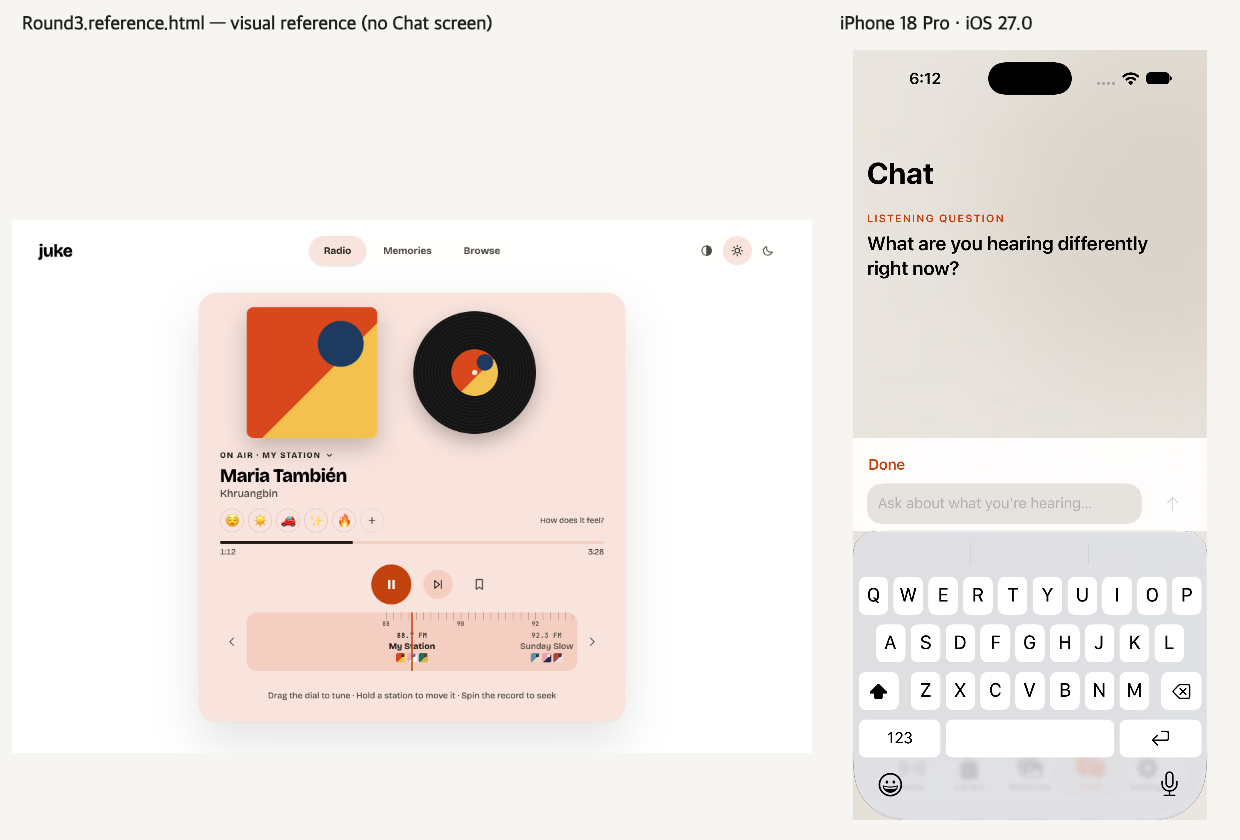
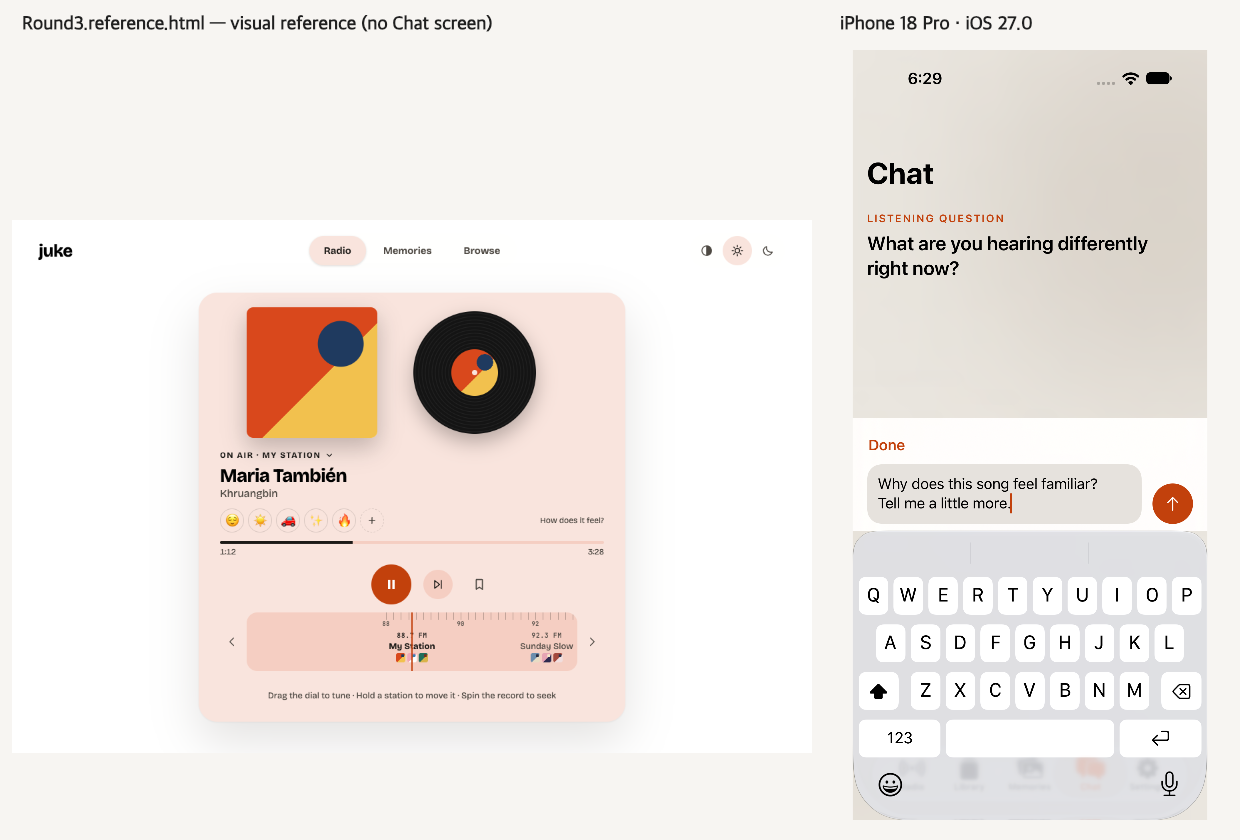
Complete keyboard screenshots and simulator verification

Changed region(s): [[0.6742, 0.4952, 0.9806, 0.619], [0.7968, 0.0619, 0.8581, 0.1238], [0.7355, 0.0929, 0.7661, 0.1238]]

diff --git a/docs/design/juke-app/ios-polish-r2/README.md b/docs/design/juke-app/ios-polish-r2/README.md
@@ -2,18 +2,22 @@
 
 ## B — Chat Done and Send
 
-Not verified on device. Screenshots use the DEBUG local-preview account, with no credentials or live chat requests.
+Not verified on device. All Chat screenshots are XCTest attachments from the final code, using the DEBUG local-preview account without credentials or live chat requests.
 
-- `b-chat-iPhone-18-Pro.png` and `b-comparison-iPhone-18-Pro.png`: final code, iPhone 18 Pro / iOS 27.0, software keyboard visible (empty draft, Send correctly disabled).
-- `b-chat-iPhone-17e-preliminary.png` and its comparison: small-phone keyboard layout before the final explicit 44-point Done hit-area adjustment; the visible layout is unchanged. A final small-phone capture is pending.
-- Multiline-draft, automated UI interaction and accessibility XXXL screenshots remain pending. The focused Pro UI test is running; the normal and large-text UI test cases are included in `ChatViewUITests.swift`.
+| Capture | Verification |
+| --- | --- |
+| `b-chat-iPhone-18-Pro.png` / `b-comparison-iPhone-18-Pro.png` | iPhone 18 Pro, iOS 27.0, multiline draft and keyboard visible; normal-text UI case passed. |
+| `b-chat-iPhone-17e.png` / `b-comparison-iPhone-17e.png` | iPhone 17e, iOS 27.0, multiline draft and keyboard visible; normal-text UI case passed. |
+| `b-chat-iPhone-17e-large-text.png` / its comparison | iPhone 17e, accessibility XXXL text (`UICTContentSizeCategoryAccessibilityXXXL`); UI case passed. |
 
-`Round3.reference.html` has Radio, Memories and Browse, but no Chat screen or phone keyboard. Its Radio view provides the palette and rounded-surface reference. `b-round3-reference.png` is a static rendering of the HTML template and embedded `Component.renderVals()` with light-theme defaults; the untracked `support.js` runtime is absent from the repository.
+The UI cases verify both controls are hittable, at least 44 points wide/high, inside the screen, non-overlapping and above the keyboard. Done dismisses the keyboard without clearing the multiline draft; focusing the draft makes both controls available again. Visual inspection also verifies the fixed-size Send symbol stays inside its circle at XXXL text. Three composer unit tests cover blank/whitespace, nonblank/multiline and in-flight drafts.
 
-Three composer logic tests passed: empty/whitespace drafts, nonblank/multiline drafts and the in-flight send guard. Final build script runs passed on iPhone 17e and iPhone 18 Pro. Initial simulator/test stalls were caused by host memory pressure (conductor diagnosis), rather than an app/runtime defect. After the conductor reduced booted simulators, Pro installation/launch and capture completed. Verification now uses one simulator at a time, shutting each down before booting another.
+`Round3.reference.html` has Radio, Memories and Browse, but no Chat screen or phone keyboard. Its Radio view provides the palette and rounded-surface reference. `b-round3-reference.png` is a static rendering of the HTML template and embedded `Component.renderVals()` with light-theme defaults; the repository does not contain the `support.js` runtime.
 
-Local validation records:
-- Passing logic tests: `/tmp/juke-chat-unit.xcresult`, `/tmp/juke-chat-unit.log`.
-- Final small-phone build: `logs/ios-build-jukeapp-2D03DD7D-7F07-4887-8EF8-90FAC4A96700-20261008-175549.log`.
-- Resumed Pro build: `logs/ios-build-jukeapp-6A9957BE-0ED2-41D6-A5B5-FEC3022A7BF7-20261008-180956.log`; fixture launch PID 72258.
-- Resumed Pro UI test: `/tmp/juke-chat-pro-resumed.log`, `/tmp/juke-chat-pro-resumed.xcresult`.
+Local validation:
+- Logic: `/tmp/juke-chat-unit.xcresult`, `/tmp/juke-chat-unit.log` (3 tests passed).
+- Small phone: `/tmp/juke-chat-small-final.xcresult`, `/tmp/juke-chat-small-final.log` (2 UI tests passed).
+- Pro: `/tmp/juke-chat-pro-final.xcresult`, `/tmp/juke-chat-pro-final.log` (1 UI test passed).
+- Final script builds: `logs/ios-build-jukeapp-2D03DD7D-7F07-4887-8EF8-90FAC4A96700-20261008-182157.log` and `logs/ios-build-jukeapp-6A9957BE-0ED2-41D6-A5B5-FEC3022A7BF7-20261008-182639.log`.
+
+Initial stalls were host memory pressure, diagnosed by the conductor. Verification resumed with one simulator and one build/test job at a time. Both used simulators (`2D03DD7D` and `6A9957BE`) were shut down after testing; the other worker's `170CE1B6` simulator was left untouched. No shared simulator service restart.

diff --git a/tasks/juke-ios-polish-round2.md b/tasks/juke-ios-polish-round2.md
@@ -124,10 +124,10 @@ Execution mode: **ASYNC**. Follow `docs/agent-pr-pipeline-protocol.md`. Rank is 
 
 ### PR B — Chat keyboard controls (implementer-1)
 
-- Scope: Done moves from the system keyboard toolbar to a dedicated leading row in the Chat composer; Send stays beside the draft. Both remain in the bottom safe-area inset, with a 44-point Done tap target and accessibility labels/identifiers.
-- Send uses the same whitespace/in-flight guard in the view and `VibeAppModel.send`; dismissal only changes focus and preserves the draft.
-- Added composer unit tests and focused XCTest UI coverage for separate/hittable controls, multiline drafts, draft-preserving dismissal and accessibility XXXL text.
-- Simulator evidence: `docs/design/juke-app/ios-polish-r2/`. Not verified on device. Round3 has no Chat screen, so the comparison is a static Radio reference for visual styling.
-- Other round-2 groups remain outstanding; B only partially addresses synced task issue #210.
-- B validation blocker (2026-10-08): three `ChatComposerTests` passed; final builds succeeded on iPhone 17e and dedicated iPhone 18 Pro. Final UI checks/screenshots could not complete: fresh Pro remains on the startup progress screen, installation blocks in CoreSimulator bridge IPC, and small-phone test host PID 36457 blocks in simulator `dyld` cache `mmap` before app code. Own test runs were stopped. NEED: coordinated CoreSimulator recovery window while other workers pause simulator use. No shared service restart attempted; no PR opened before the required evidence is complete. See the evidence README for commands/logs and simulator IDs.
-- B resumed: conductor identified host memory pressure and reduced booted simulators; no CoreSimulatorService restart needed. Final Pro build/launch and keyboard screenshot now complete. PR will explicitly distinguish preliminary small-phone evidence from final Pro evidence and identify pending UI/large-text verification. Continue one simulator at a time; leave implementer-2's 170CE1B6 simulator untouched and shut down each B simulator before booting another.
+- PR: #212 (`juke-app/chat-keyboard-done`), P1, author:codex, needs-review. Implements group B only; `Refs #210` leaves the overall round-2 issue open.
+- Done has a dedicated leading row and a 44-point tap target in the bottom composer inset. Send stays beside the draft; its icon size is fixed so accessibility text does not push it outside its circle. Keyboard dismissal preserves the draft.
+- The view and model share the whitespace/in-flight send guard. Three composer unit tests passed.
+- Final UI tests passed: iPhone 18 Pro normal text; iPhone 17e normal and accessibility XXXL text. Checks cover 44-point targets, screen bounds, non-overlap, keyboard clearance, draft preservation and refocusing.
+- Evidence: `docs/design/juke-app/ios-polish-r2/`, including multiline-draft keyboard screenshots and side-by-side Round3 comparisons. Round3 has no Chat screen; its static Radio view is the styling reference. Not verified on device; no live chat requests.
+- Final builds used `scripts/build_and_run_ios.sh -p jukeapp` with explicit simulator targets. Initial host-memory-pressure stalls resolved by reducing simulator concurrency; no CoreSimulatorService restart. Both B simulators were shut down after verification; implementer-2's simulator was untouched.
+- Next: finish CI/review/merge through the pipeline; other round-2 groups remain outstanding.
